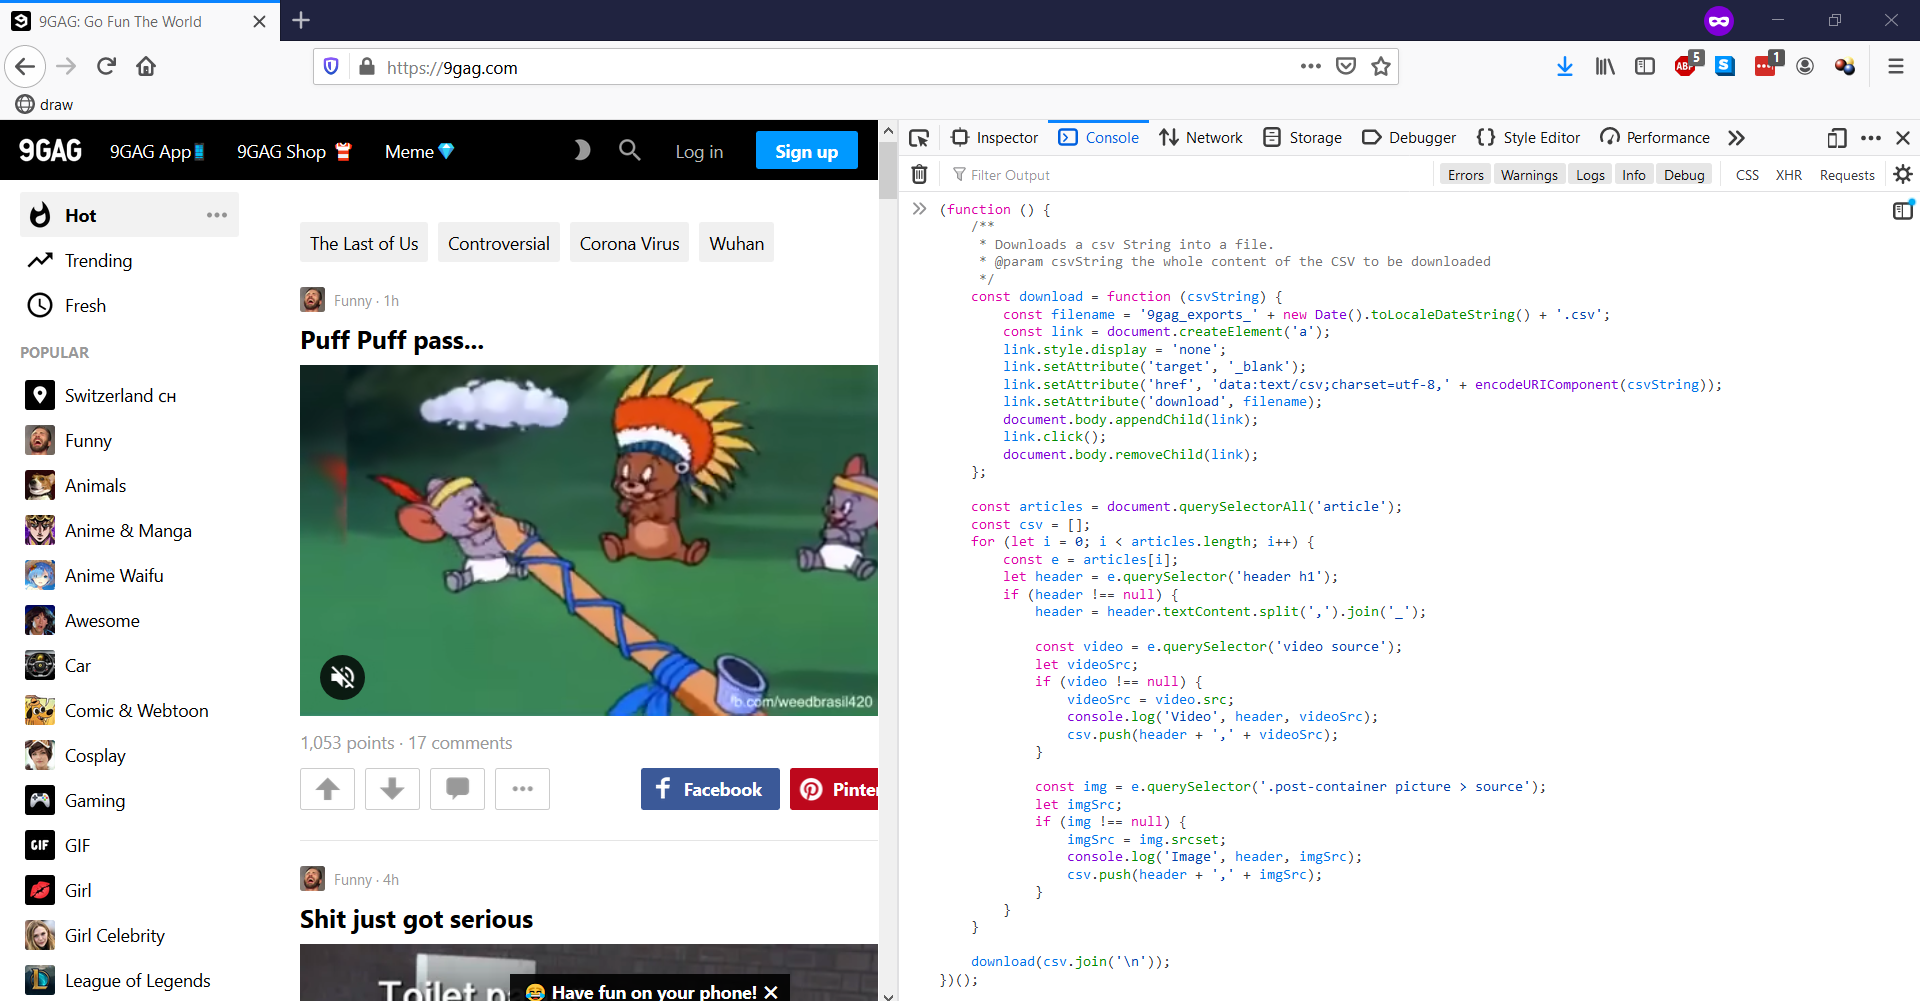
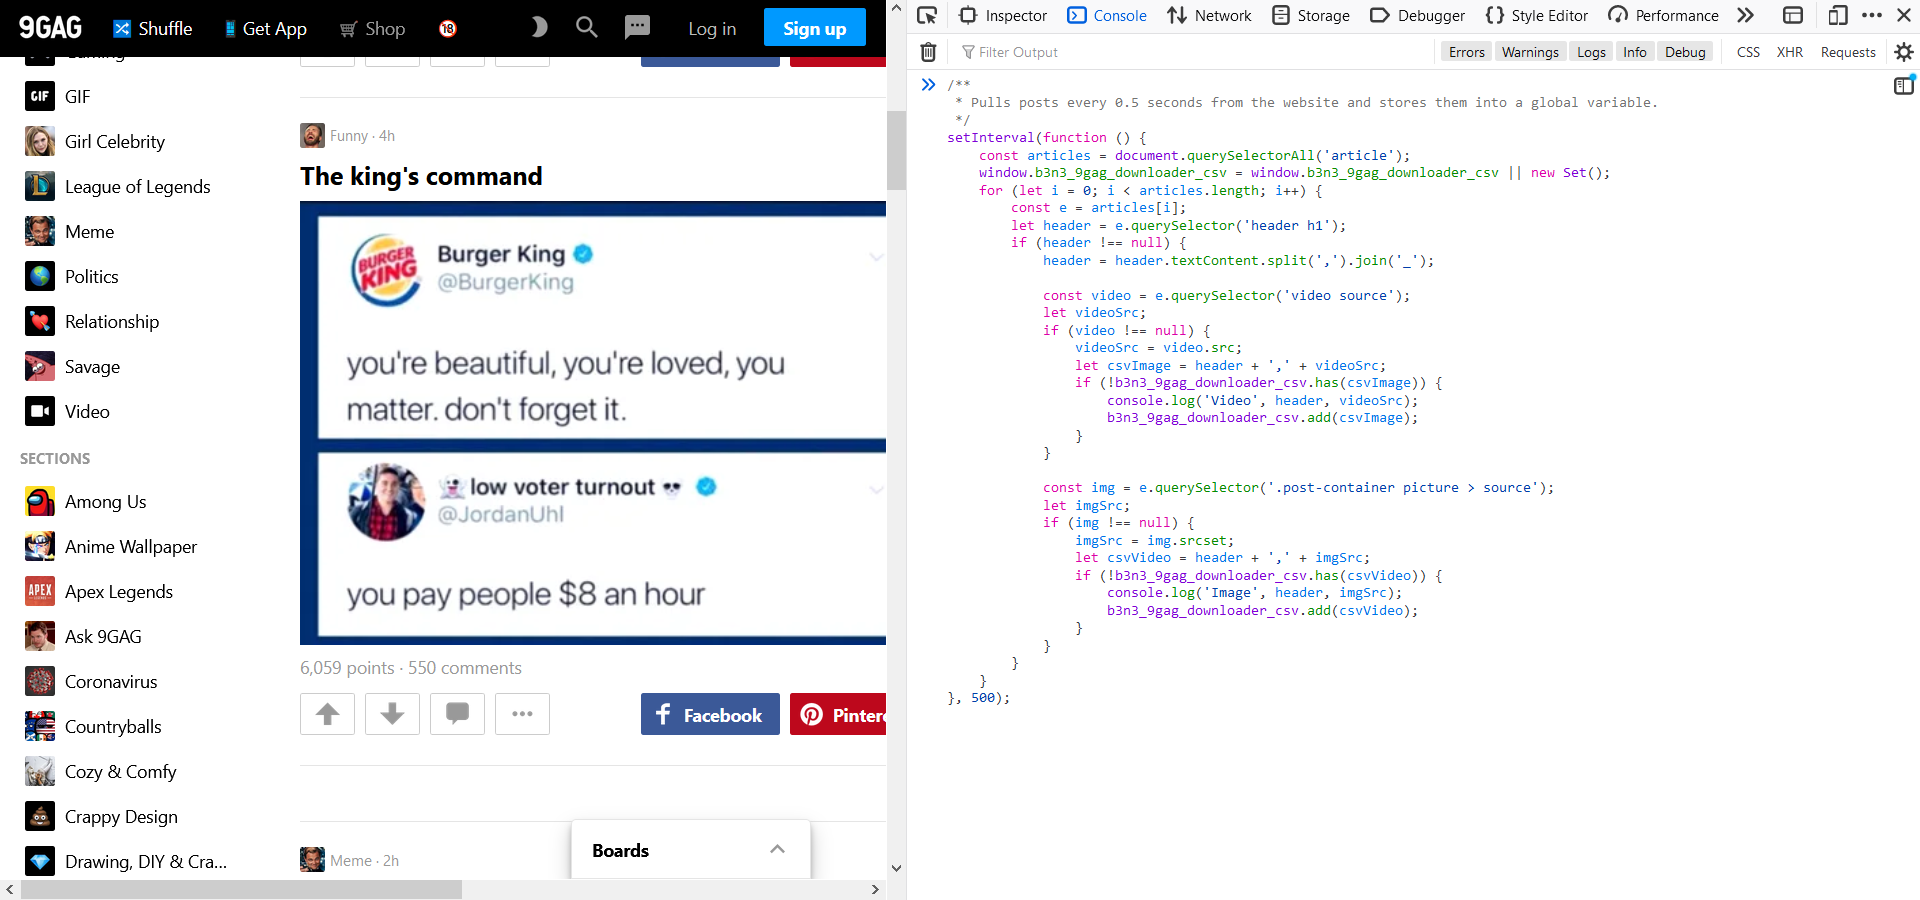
Downloader now pulls new posts periodically to work with latest 9GAG website optimizations.

diff --git a/9gagExtractor.js b/9gagExtractor.js
@@ -1,45 +1,17 @@
-(function () {
-    /**
-     * Downloads a csv String into a file.
-     * @param csvString the whole content of the CSV to be downloaded
-     */
-    const download = function (csvString) {
-        const filename = '9gag_exports_' + new Date().toLocaleDateString() + '.csv';
-        const link = document.createElement('a');
-        link.style.display = 'none';
-        link.setAttribute('target', '_blank');
-        link.setAttribute('href', 'data:text/csv;charset=utf-8,' + encodeURIComponent(csvString));
-        link.setAttribute('download', filename);
-        document.body.appendChild(link);
-        link.click();
-        document.body.removeChild(link);
-    };
+/**
+ * Downloads a csv String into a file.
+ * @param csvString the whole content of the CSV to be downloaded
+ */
+const download_b3n3_9gag_csv = function (csvString) {
+    const filename = '9gag_exports_' + new Date().toLocaleDateString() + '.csv';
+    const link = document.createElement('a');
+    link.style.display = 'none';
+    link.setAttribute('target', '_blank');
+    link.setAttribute('href', 'data:text/csv;charset=utf-8,' + encodeURIComponent(csvString));
+    link.setAttribute('download', filename);
+    document.body.appendChild(link);
+    link.click();
+    document.body.removeChild(link);
+};
 
-    const articles = document.querySelectorAll('article');
-    const csv = [];
-    for (let i = 0; i < articles.length; i++) {
-        const e = articles[i];
-        let header = e.querySelector('header h1');
-        if (header !== null) {
-            header = header.textContent.split(',').join('_');
-
-            const video = e.querySelector('video source');
-            let videoSrc;
-            if (video !== null) {
-                videoSrc = video.src;
-                console.log('Video', header, videoSrc);
-                csv.push(header + ',' + videoSrc);
-            }
-
-            const img = e.querySelector('.post-container picture > source');
-            let imgSrc;
-            if (img !== null) {
-                imgSrc = img.srcset;
-                console.log('Image', header, imgSrc);
-                csv.push(header + ',' + imgSrc);
-            }
-        }
-    }
-
-    download(csv.join('\n'));
-})();
+download_b3n3_9gag_csv(b3n3_9gag_downloader_csv.join('\n'));

diff --git a/9gagCollector.js b/9gagCollector.js
@@ -1,0 +1,36 @@
+/**
+ * Pulls posts every 0.5 seconds from the website and stores them into a global variable.
+ */
+setInterval(function () {
+    const articles = document.querySelectorAll('article');
+    window.b3n3_9gag_downloader_csv = window.b3n3_9gag_downloader_csv || new Set();
+    for (let i = 0; i < articles.length; i++) {
+        const e = articles[i];
+        let header = e.querySelector('header h1');
+        if (header !== null) {
+            header = header.textContent.split(',').join('_');
+
+            const video = e.querySelector('video source');
+            let videoSrc;
+            if (video !== null) {
+                videoSrc = video.src;
+                let csvImage = header + ',' + videoSrc;
+                if (!b3n3_9gag_downloader_csv.has(csvImage)) {
+                    console.log('Video', header, videoSrc);
+                    b3n3_9gag_downloader_csv.add(csvImage);
+                }
+            }
+
+            const img = e.querySelector('.post-container picture > source');
+            let imgSrc;
+            if (img !== null) {
+                imgSrc = img.srcset;
+                let csvVideo = header + ',' + imgSrc;
+                if (!b3n3_9gag_downloader_csv.has(csvVideo)) {
+                    console.log('Image', header, imgSrc);
+                    b3n3_9gag_downloader_csv.add(csvVideo);
+                }
+            }
+        }
+    }
+}, 500);

diff --git a/README.md b/README.md
@@ -14,7 +14,7 @@ For [9gagDownloader.py](9gagDownloader.py) you need the following:
 * `requests` library\
 Simply run `pip install requests` after installing Python 3.x or by running `pip install < requirements.txt`.
 
-For [9gagExtractor.js](9gagExtractor.js) you only need:
+For [9gagCollector.js](9gagCollector.js) and [9gagExtractor.js](9gagExtractor.js) you only need:
 * Google Chrome or Firefox
 
 
@@ -24,11 +24,25 @@ How to run it:
 ### Run the 9GAG-Extractor
 First of all we have to collect a list of all posts which shall be downloaded later.\
 This is done by opening the Browser Console (press *F12*) on the page where you want to download the posts.\
-*Note, that this script will only download posts which have been loaded(!). So make sure, that you scroll all the way down before executing it.*
+This script will only download posts which have been loaded(!). \
+You can see which posts have been collected so far in the console. \
+After you executed the script make sure that you scroll all the way down.
+
+*Note, the script will check for new posts on the screen every 0.5 seconds.*
+
+------------ 
+
 
 ![Extractor1](images/extractor1.png)
 
-Now copy and paste the complete code from [9gagExtractor.js](9gagExtractor.js) into the browser console and press Enter.
+Copy and paste the complete code from [9gagCollector.js](9gagCollector.js) into the browser console and press Enter.
+This will start collecting posts available on the screen. \
+You can see which posts are captured in the console log.
+
+![Extractor1.1](images/extractor1_1.png)
+
+
+Once you are done with scrolling and no new posts are collected anymore, you can initiate the download by copy and pasting the code from [9gagExtractor.js](9gagExtractor.js) into the console.
 This will start the download of a CSV file containing all the information needed for later.
 
 ![Extractor2](images/extractor2.png)
